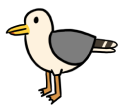
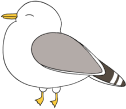
added seagull guide page

diff --git a/my-app/src/components/SeagullGuide/SeaGuide.js b/my-app/src/components/SeagullGuide/SeaGuide.js
@@ -7,18 +7,18 @@ import {
 } from './styles.tsx';
 import { Background } from "./styles.tsx";
 
-function FlapGuide(props) {
-  const { isFlapGuide, setIsFlapGuide } = props;
+function SeaGuide(props) {
+  const { isSeaGuide, setIsSeaGuide } = props;
   
     // Player Movement
     const [xAxis, setXAxis] = useState(60);
     const [yAxis, setYAxis] = useState(100);
 
     // Change Player's Position
-    const userPlacement = { top: yAxis + -500 +'px', left: xAxis + 960 + 'px' };
+    const userPlacement = { top: yAxis + -450 +'px', left: xAxis + 150 + 'px' };
     const navigate = useNavigate();
     const user = useRef(null);
-    const fish = useRef(null);
+    const seagull = useRef(null);
 
 
 
@@ -41,12 +41,12 @@ function FlapGuide(props) {
 
     	const handleWithinRange = (event) => {
 		if (Math.sqrt((user.current.x - event.target.x) ** 2 + (user.current.y - event.target.y) ** 2) <= 400) {
-			navigate('/level2');
+			navigate('/level1');
 		}
 	}
 
     function checkWithinRange() {
-      if (Math.sqrt((user.current.x - fish.current.x) ** 2 + (user.current.y - fish.current.y) ** 2) <= 400) {
+      if (Math.sqrt((user.current.x - seagull.current.x) ** 2 + (user.current.y - seagull.current.y) ** 2) <= 400) {
         document.getElementById('transition').classList.add('in-range');
       } else {
         document.getElementById('transition').classList.remove('in-range');
@@ -55,19 +55,19 @@ function FlapGuide(props) {
 
   useEffect(() => {
     user.current.focus();
-    fish.current.focus();
-    setIsFlapGuide(true);
-  }, [isFlapGuide]);
+    seagull.current.focus();
+    setIsSeaGuide(true);
+  }, [isSeaGuide]);
 
   return (
-    <div className='play-area' onClick={() => user.current.focus()}>
-    <Background className="play-area">
-      <img className="speech" src='./imgs/text.png' />
-      <img className="talk" src='./imgs/interaction.png' />
-      <img className="excel" src='./imgs/excel.png' />
-      <img className="bubble" src='./imgs/bubbles.png' />
-      <img className="fish" id="transition" ref={fish} src='./imgs/sal.png' onClick={handleWithinRange} />
-      <img className="flapjack-guide" src='./sprites/sprite-pancake-flapjack-octopus.png' />
+    <div className='beach-area' onClick={() => user.current.focus()}>
+    <Background className="beach-area">
+    <img className="speech-two" src='./imgs/text.png' />
+      <img className="talk-two" src='./imgs/speech-two.png' />
+  <img className="shawn-two" src='./sprites/sprite-shawn-seagull.png' />
+    <img className="excel-two" src='./imgs/excel.png' />
+    <img className="shawn-seagull" id="transition" ref={seagull} src='./sprites/sprite-shawn-seagull.png' onClick={handleWithinRange} />
+    <img className="secondflap-guide" src='./sprites/sprite-pancake-bowl.png' />
     </Background>
       {/* User */}
       <User
@@ -84,5 +84,5 @@ function FlapGuide(props) {
 );
 };
 
-export default FlapGuide;
+export default SeaGuide;
 

diff --git a/my-app/src/App.js b/my-app/src/App.js
@@ -10,6 +10,7 @@ import EditorPage from './components/EditorPage/EditorPage';
 import Level1_VisualNovel from './components/VisualNovel/Level1_VN/Level1_VisualNovel';
 import Level2_VisualNovel from './components/VisualNovel/Level2_VN/Level2_VisualNovel';
 import FlapGuide from './components/FlapjackGuide/FlapGuide';
+import SeaGuide from './components/SeagullGuide/SeaGuide';
 import Intro from './components/VisualNovel/Intro';
 import NetMiniGame from './components/NetMinigame/NetMiniGame';
 import Tutorial from './components/Tutorial/Tutorial';
@@ -20,6 +21,7 @@ import Levels from './components/Levels/Levels';
 
 function App() {
 	const [isFlapGuide, setIsFlapGuide] = useState(false);
+	const [isSeaGuide, setIsSeaGuide] = useState(false);
 	const [isGameComplete, setIsGameComplete] = useState(false);
 	const [questionNumber, setQuestionNumber] = useState(1);
 	const [amountQuestionsTake, setAmountQuestionsTake] = useState(1);
@@ -69,6 +71,11 @@ function App() {
 							<FlapGuide isFlapGuide={isFlapGuide} setIsFlapGuide={setIsFlapGuide} />
 						</>
 					} />
+					<Route path='/seaguide' element={
+						<>
+							<SeaGuide isSeaGuide={isSeaGuide} setIsSeaGuide={setIsSeaGuide} />
+						</>
+					} />
 					<Route path='preface' element={
 						<>
 							<Intro />
@@ -79,6 +86,8 @@ function App() {
 						<>
 							<Level1_VisualNovel
 								level={LEVEL1}
+								isSeaGuide={isSeaGuide}
+								setIsSeaGuide={setIsSeaGuide}
 								isFlapGuide={isFlapGuide}
 								setIsFlapGuide={setIsFlapGuide}
 								isGameComplete={isGameComplete}
@@ -95,6 +104,8 @@ function App() {
 						<>
 							<Level2_VisualNovel
 								level={LEVEL2}
+								isSeaGuide={isSeaGuide}
+								setIsSeaGuide={setIsSeaGuide}
 								isFlapGuide={isFlapGuide}
 								setIsFlapGuide={setIsFlapGuide}
 								isGameComplete={isGameComplete}

diff --git a/my-app/src/App.css b/my-app/src/App.css
@@ -150,6 +150,14 @@ footer {
   display: inline;
 }
 
+.beach-area {
+  background-image: url('../public/sprites/bg-beach.png');
+  height: 100vh;
+  overflow: hidden;
+  background-size: cover;
+}
+
+
 .play-area {
   background-image: url('../public/sprites/bg-sea.png');
   height: 100vh;
@@ -174,6 +182,10 @@ footer {
   }
 }
 
+.beach-area::-webkit-scrollbar {
+  display: none;
+}
+
 .play-area::-webkit-scrollbar {
   display: none;
 }
@@ -181,6 +193,11 @@ footer {
 #playable {
   position: relative;
   width: 250px;
+}
+
+#one-playable {
+  position: relative;
+  width: 350px;
 }
 
 #net, #net2, #net3 {
@@ -874,4 +891,70 @@ position: absolute;
 
 .level-three {
 background-image: url("../public/imgs/thirdlevel.png");
+}
+
+.shawn-seagull {
+  position: absolute;
+  width: 200px;
+  height: 160px;
+  right: 395px;
+  top: 745px;
+  transform: matrix(-1, 0, 0, 1, 0, 0);
+}
+
+
+.shawn-two {
+  position: absolute;
+  width: 200px;
+  height: 160px;
+  right: 210px;
+  top: 990px;
+  transform: matrix(-1, 0, 0, 1, 0, 0);
+}
+
+.excel-two {
+  display: flex;
+  flex-direction: column;
+  align-items: center;
+  padding: 0px;
+  gap: 6px;
+  position: absolute;
+  width: 17px;
+  height: 84.52px;
+ right: 540px;
+  top: 640px;
+}
+
+
+.secondflap-guide {
+  position: absolute;
+  width: 190px;
+  height: 170px;
+  left: 530px;
+  top: 670px;
+  filter: drop-shadow(0px 4px 4px rgba(0, 0, 0, 0.25));
+}
+
+.speech-two {
+  position: absolute;
+  width: 694px;
+  height: 159px;
+  left: 30px;
+  top: 494px;
+  z-index: 10;
+}
+
+.talk-two {
+  position: absolute;
+  width: 609px;
+  height: 94px;
+  left: 81px;
+  top: 528px;
+  z-index: 10;
+  font-family: 'Mulish';
+  font-style: normal;
+  font-weight: 400;
+  font-size: 36px;
+  line-height: 45px;
+  color: #000000;
 }

diff --git a/my-app/src/components/SeagullGuide/styles.tsx b/my-app/src/components/SeagullGuide/styles.tsx
@@ -1,0 +1,19 @@
+import styled from 'styled-components';
+interface Props {
+    style?: object;
+    ref: any;
+    tabIndex?: number;
+    onKeyDown?: any;
+    src: string;
+    id?: string;
+    className: string; 
+    alt: string;
+}
+
+export const User = styled.img<Props>`
+`;
+
+export const Background = styled.div`
+    width: 100%;
+`;
+
